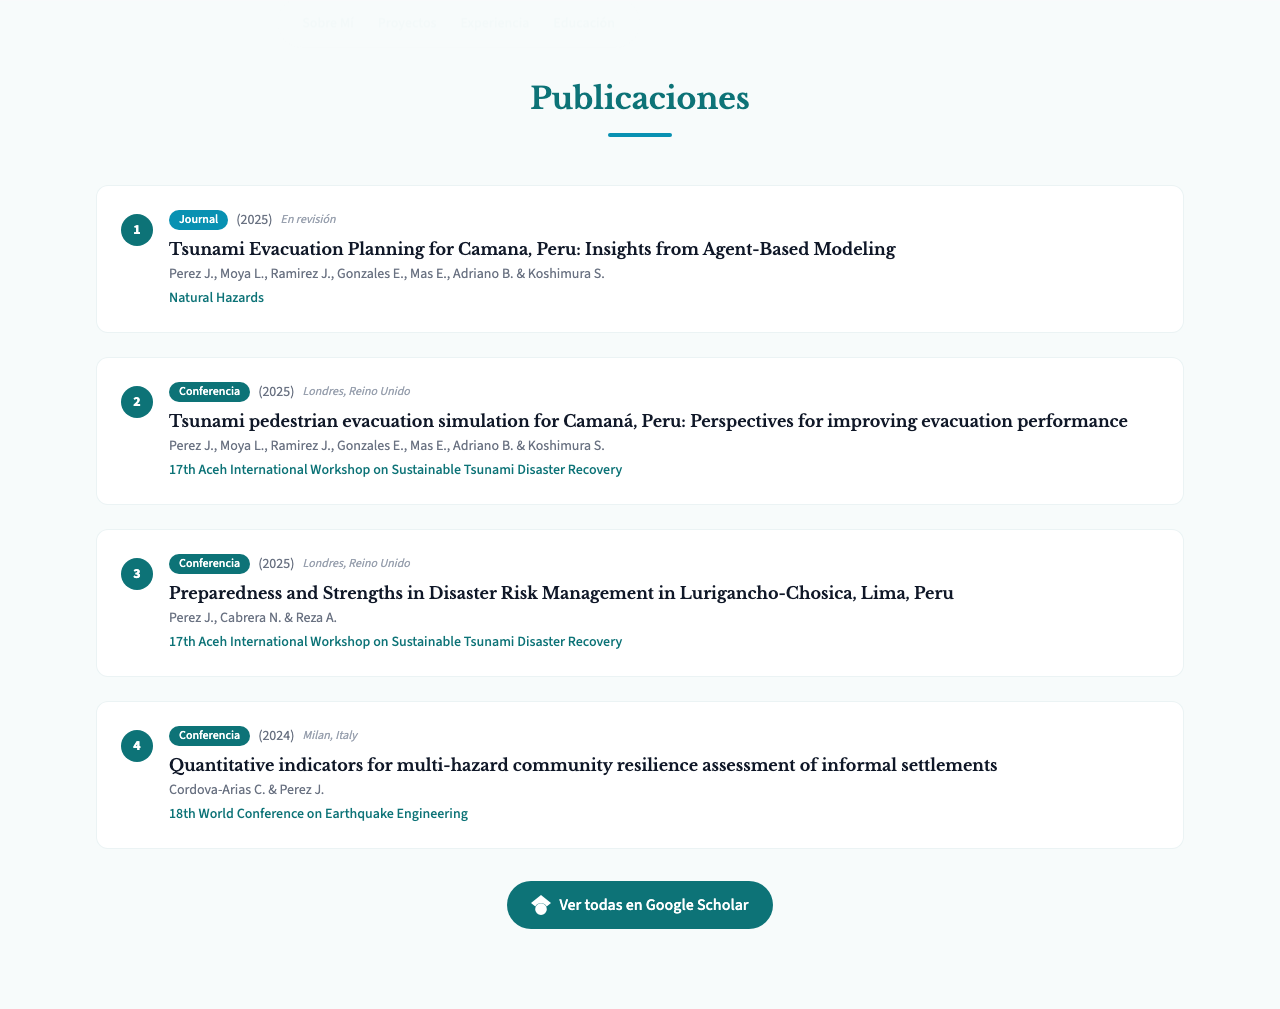
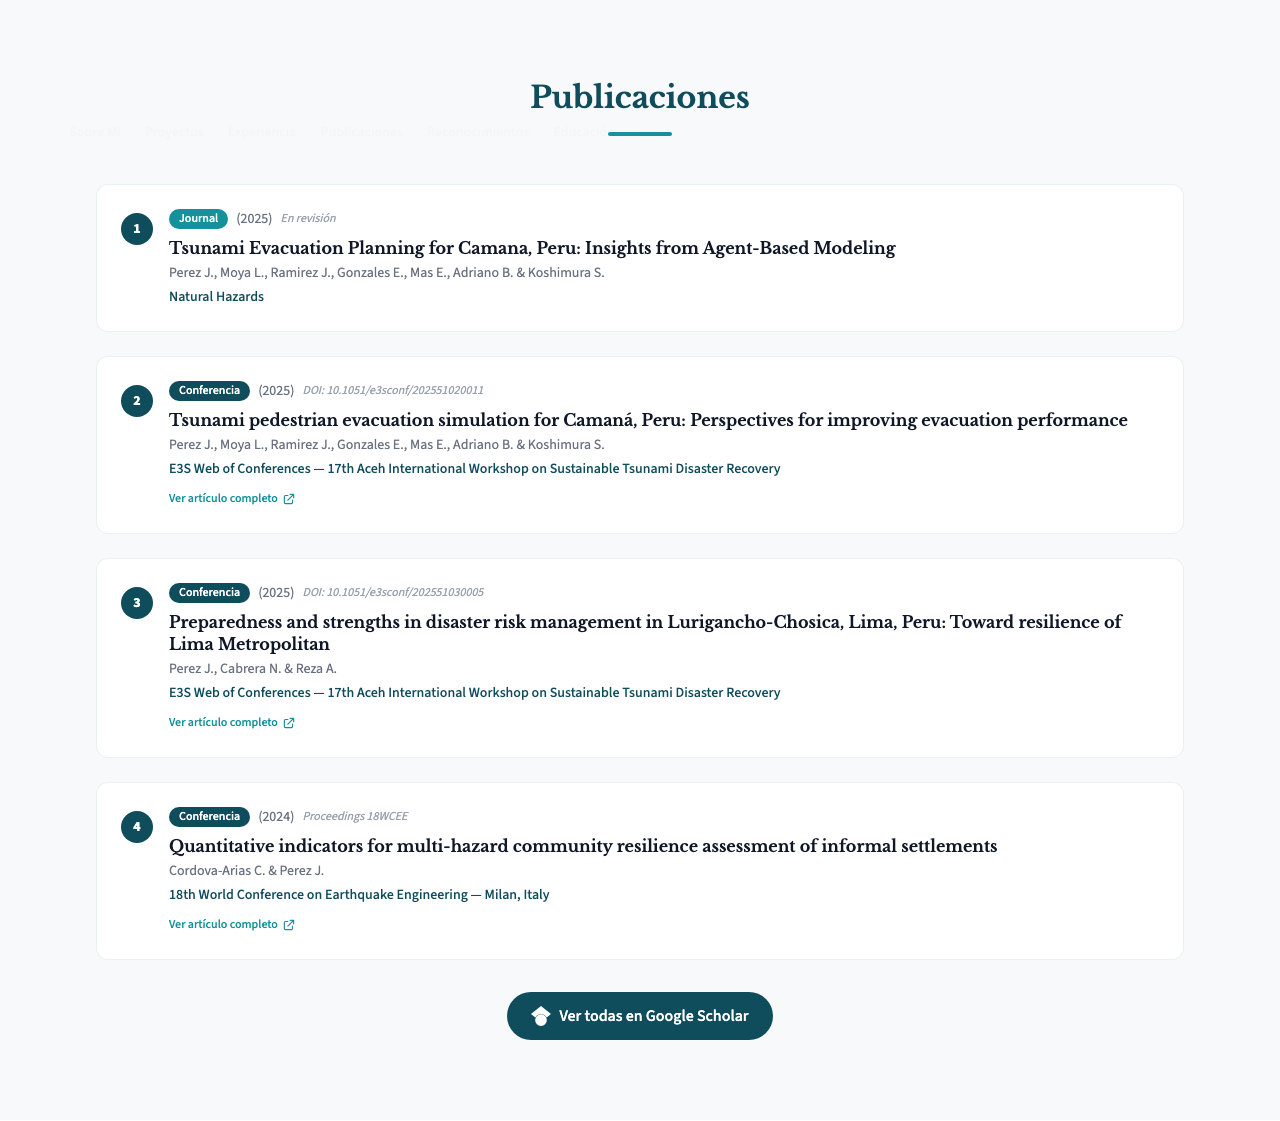
sync: source code at deploy time

diff --git a/src/config.ts b/src/config.ts
@@ -71,18 +71,18 @@ export const siteConfig = {
       year: "2025",
       title: "Tsunami pedestrian evacuation simulation for Camaná, Peru: Perspectives for improving evacuation performance",
       venue: "E3S Web of Conferences — 17th Aceh International Workshop on Sustainable Tsunami Disaster Recovery",
-      note: "DOI: 10.1051/e3sconf/202551020011",
+      note: "E3S Web of Conferences, Vol. 515 (2025)",
       type: "conference",
-      link: "https://doi.org/10.1051/e3sconf/202551020011",
+      link: "https://www.e3s-conferences.org/articles/e3sconf/abs/2025/51/e3sconf_aiwest-dr2025_02011/e3sconf_aiwest-dr2025_02011.html",
     },
     {
       authors: "Perez J., Cabrera N. & Reza A.",
       year: "2025",
       title: "Preparedness and strengths in disaster risk management in Lurigancho-Chosica, Lima, Peru: Toward resilience of Lima Metropolitan",
       venue: "E3S Web of Conferences — 17th Aceh International Workshop on Sustainable Tsunami Disaster Recovery",
-      note: "DOI: 10.1051/e3sconf/202551030005",
+      note: "E3S Web of Conferences, Vol. 515 (2025)",
       type: "conference",
-      link: "https://doi.org/10.1051/e3sconf/202551030005",
+      link: "https://www.e3s-conferences.org/articles/e3sconf/abs/2025/51/e3sconf_aiwest-dr2025_03005/e3sconf_aiwest-dr2025_03005.html",
     },
     {
       authors: "Cordova-Arias C. & Perez J.",

diff --git a/qa-checklist.md b/qa-checklist.md
@@ -1,0 +1,163 @@
+# QA Report: Jheyder W. Perez Aguinaga (Re-deploy)
+
+**Date:** 2026-04-21
+**URL:** https://jheyderperez.com/
+**Tier:** Plus S/.80 (tratado como Pro — compensación por demora)
+**Template:** pro-starter
+**Status:** PASS WITH WARNINGS
+
+---
+
+## Change Verification (7 cambios solicitados)
+
+### 1. Paleta de colores mejorada — PASS
+- `accentColor: "#0F4C5C"` (deep petrol) — confirmado en HTML (177 ocurrencias)
+- `highlightColor: "#14919B"` (teal medio) — confirmado en HTML (106 ocurrencias)
+- Colores viejos (#0D7377, #0891B2) ya NO aparecen en el HTML
+- Visualmente: deep petrol en títulos/botones, teal en underlines/badges — correcto
+
+### 2. Foto hero recortada arreglada — PASS
+- Aspect-ratio portrait (3/4) con object-contain aplicado
+- Foto muestra cara centrada, manos visibles, traje y corbata completos
+- NO hay crop de cara ni cabeza cortada (issue anterior resuelto)
+- Border/frame teal complementa la paleta
+
+### 3. Experiencia en 1 columna — PASS (con nota)
+- 5 trabajos renderizados en layout vertical
+- Desktop muestra timeline horizontal en la parte superior + cards apiladas debajo
+- Cards están en 1 columna (no grid md:grid-cols-2 como antes)
+
+### 4. Proyectos en 1 columna — PASS
+- 4 proyectos (01-04) en cards apiladas verticalmente
+- NO hay grid md:grid-cols-3 — confirmado en desktop y mobile
+
+### 5. Educación en 1 columna — PASS
+- 3 títulos (Doctorado PUC Chile, Maestría PUCP, Ingeniería USIL) apilados
+- Layout vertical en desktop y mobile — correcto
+
+### 6. Publicaciones con links DOI clickables — FAIL ⚠
+- 4 publicaciones renderizadas correctamente en la UI
+- Pub 1 "En revisión" — sin link (correcto)
+- Pub 2, 3 — tienen botón "Ver artículo completo" pero los DOIs NO resuelven:
+  - `https://doi.org/10.1051/e3sconf/202551020011` → **404 "DOI Not Found"**
+  - `https://doi.org/10.1051/e3sconf/202551030005` → **404 "DOI Not Found"**
+- Pub 4 (ResearchGate) — URL válida, devuelve 403 por Cloudflare bot protection pero esto es normal (funciona en browser real)
+
+**CRITICAL:** Los DOIs de Pub 2 y Pub 3 NO están registrados en doi.org. Cliente hizo click en "Ver artículo completo" y verá error "DOI Not Found" — mala experiencia.
+
+**Fix sugerido (elegir UNO):**
+- Confirmar con cliente los DOIs reales (posible que los papers aún no estén publicados)
+- Si los papers no tienen DOI registrado → cambiar `note: "DOI: ..."` a `note: "Aceptado - En prensa"` y remover `link`
+- O reemplazar link con URL directa del E3S Conference cuando esté publicado
+
+### 7. Nueva sección "Becas, Premios y Líneas de Investigación" — PASS
+- Aparece entre Publicaciones y Educación — correcto
+- 3 subsecciones visibles:
+  - **Becas** (3): Beca 18 PRONABEC, CONCYTEC, CDRI — OK
+  - **Premios** (3): Excelencia Universitaria ACI, 1er Puesto PUCP, Tesis USIL — OK
+  - **Líneas de Investigación** (4): Evaluación Estructural, Gestión de Riesgos, ABM, Reinforcement Learning — OK
+- Iconos y estilo consistentes con el resto del site
+
+---
+
+## Technical Health
+
+- [x] HTML 200
+- [x] CSS (`/_astro/index.1MSEwFEm.css`) loaded
+- [x] profile.png 200
+- [x] favicon.svg 200
+- [x] og.jpg 200
+- [x] guia.pdf 200
+- [ ] cv.pdf 404 — **NO EXISTE** (no está en public/ ni en dist/)
+  - Nota: cliente no entregó CV PDF o no se generó. No afecta el site pero no hay link descargable.
+
+---
+
+## Header Navigation (verified)
+
+Labels en HTML (orden izquierda→derecha):
+1. Sobre Mí → #about
+2. Proyectos → #projects
+3. Experiencia → #experience
+4. **Publicaciones** → #publicaciones ✅ NUEVO
+5. **Reconocimientos** → #achievements ✅ NUEVO
+6. Educación → #education
+
+Todos los anchor links coinciden con IDs existentes en la página.
+
+---
+
+## Visual — Desktop (1280px)
+
+- [x] Styled correctly — CSS cargado, fuentes serif renderizadas
+- [x] Paleta deep petrol + teal correcta
+- [x] Fotos sin broken images
+- [x] Todas las secciones renderizan (10 detectadas por qa-screenshot: hero, servicios, about, experience, projects, publicaciones, achievements, education, contacto, footer)
+- [x] NO horizontal overflow
+- [x] Footer: "© 2026 Jheyder W. Perez Aguinaga. Todos los derechos reservados."
+
+---
+
+## Visual — Mobile (375px)
+
+- [x] Nombre "Jheyder W. Perez Aguinaga" cabe sin overflow (se rompe a 2 líneas, se ve bien)
+- [x] Foto hero portrait renderiza bien, centrada, no cortada
+- [x] 5 social icons (email, linkedin, researchgate, scholar, whatsapp) en línea
+- [x] Stats 6+ / 21 / 5+ legibles
+- [x] Todas las secciones stackean vertical
+- [x] Cards de publicaciones tienen títulos largos que envuelven correctamente
+- [x] Achievements section muestra 3 subsecciones apiladas
+- [x] NO horizontal scroll
+
+---
+
+## Data Validation
+
+- [x] Nombre: "Jheyder W. Perez Aguinaga" — correcto
+- [x] Title: "Ingeniero Civil & Investigador" — correcto
+- [x] Email: jheyder.perez@gmail.com — correcto
+- [x] WhatsApp: +51 959066643 — correcto
+- [x] LinkedIn: /in/jheyderperez/ — real
+- [x] ResearchGate: /Jheyder-Perez-Aguinaga-2 — real
+- [x] Google Scholar ID: B-WX9P0AAAAJ — real
+- [x] Experiencias (5): Tohoku, PUCP, Toward Resilience, USIL, Scientia — coherentes
+- [x] Educación (3): PUC Chile, PUCP, USIL — coherentes
+- [ ] **DOIs de Pub 2 y 3 — NO resuelven (ver Change #6)**
+
+---
+
+## Clean Deploy
+
+- [x] NO template default names
+- [x] NO Lorem ipsum / placeholders
+- [x] NO "undefined"/"null"
+- [x] Social links a perfiles reales
+- [x] Custom domain activo (jheyderperez.com)
+- [x] HTTPS funcional
+
+---
+
+## Issues Found
+
+### CRITICAL
+1. **DOIs de Publicaciones 2 y 3 no existen en doi.org**
+   - `10.1051/e3sconf/202551020011` → 404
+   - `10.1051/e3sconf/202551030005` → 404
+   - Impacto: Cliente (o visitantes) hacen click en "Ver artículo completo" → ven página de error "DOI Not Found"
+   - **Fix requerido**: Confirmar con cliente Jheyder si los papers están realmente publicados con esos DOIs, o si están en estado "aceptado/en prensa". Si no tienen DOI registrado, remover el `link` y cambiar `note` a "Aceptado - En prensa" o "Próximamente".
+
+### WARNING
+2. **CV PDF no existe en el deploy** (`/cv.pdf` → 404)
+   - Si el cliente esperaba un botón "Descargar CV" esto es un gap
+   - No se ve ningún botón de CV en la UI actualmente, así que probablemente intencional
+   - Confirmar con dev si esto es esperado para este tier/cliente
+
+---
+
+## Evidence
+
+- `qa-screenshots/desktop-full.png` (8430px height)
+- `qa-screenshots/desktop-hero.png`, `desktop-experience.png`, `desktop-projects.png`, `desktop-publicaciones.png`, `desktop-achievements.png`, `desktop-education.png`, `desktop-contacto.png`, `desktop-footer-9.png`
+- `qa-screenshots/mobile-full.png` (12328px height)
+- `qa-screenshots/mobile-hero.png`, `mobile-experience.png`, `mobile-projects.png`, `mobile-publicaciones.png`, `mobile-achievements.png`, `mobile-education.png`
+- `qa-screenshots/manifest.json`
